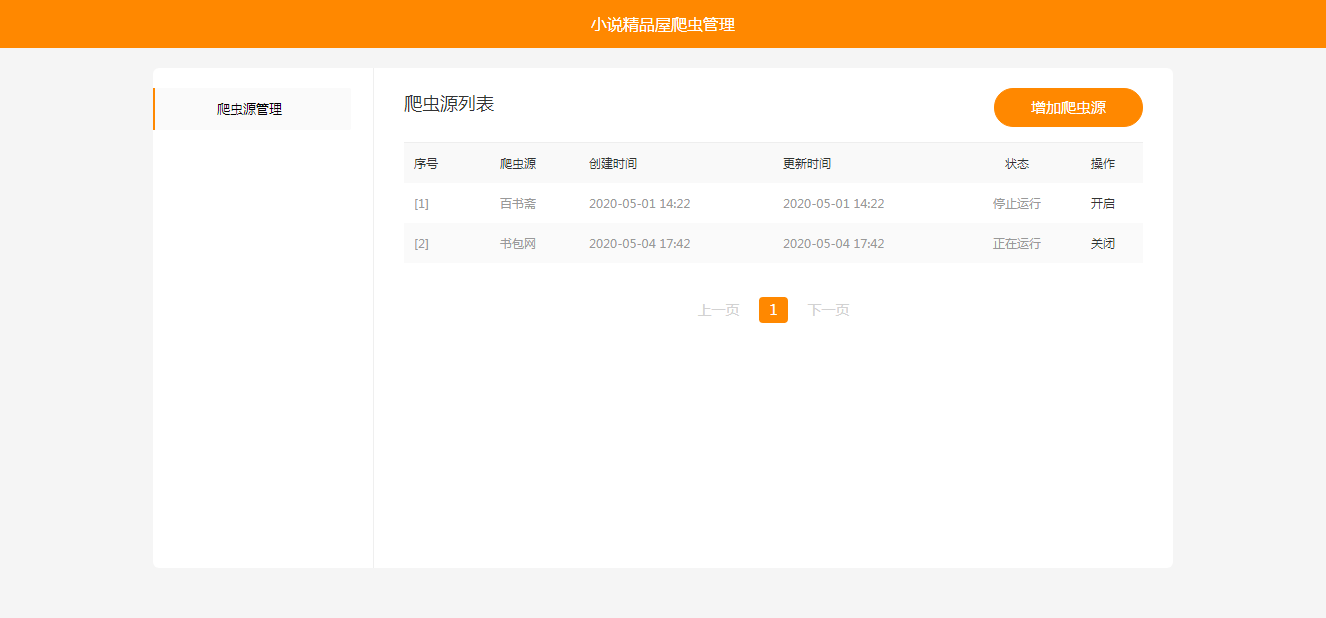
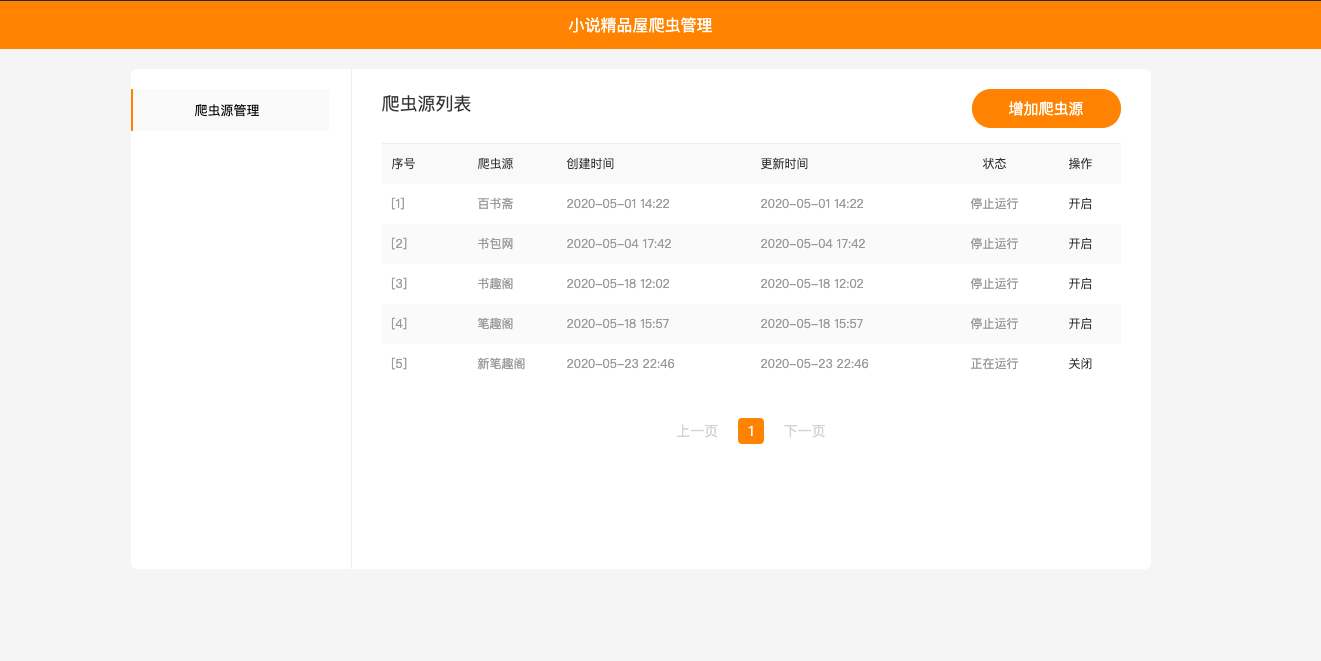
1.解决爬虫线程停止失败的bug,2新增新笔趣阁源，兼容更多源站

diff --git a/novel-front/src/main/resources/templates/mobile/index.html b/novel-front/src/main/resources/templates/mobile/index.html
@@ -276,6 +276,10 @@
                 for (var i = 0; i < 6; i++) {
                     var hotRecBook = hotRecBooks[i];
 
+                    if(hotRecBook.bookDesc){
+                        hotRecBook.bookDesc = hotRecBook.bookDesc.replace(/<[^>]+>/g,"").replace(/\s+/g,"");
+                    }
+
                     hotRecBooksHtml += ("<div style=\"margin-bottom: 5px\" class=\"layui-col-xs12 layui-col-sm6 layui-col-md4 layui-col-lg4\">\n" +
                         "                        <a href=\"/book/"+hotRecBook.bookId+".html\">\n" +
                         "                            <div class=\"layui-col-xs5 layui-col-sm4 layui-col-md4 layui-col-lg4\" >\n" +
@@ -323,9 +327,8 @@
                 for (var i = 0; i < 10; i++) {
 
                     var updateRankBook = updateRankBooks[i];
-                    var end = updateRankBook.bookDesc.indexOf("<");
-                    if(end != -1) {
-                        updateRankBook.bookDesc = updateRankBook.bookDesc.substring(0,end);
+                    if(updateRankBook.bookDesc){
+                        updateRankBook.bookDesc = updateRankBook.bookDesc.replace(/<[^>]+>/g,"").replace(/\s+/g,"");
                     }
 
                         updateRankBookHtml += ("<div style=\"padding-bottom: 30px\"\n" +

diff --git a/novel-front/src/main/resources/templates/mobile/book/book_ranking.html b/novel-front/src/main/resources/templates/mobile/book/book_ranking.html
@@ -179,9 +179,13 @@
                     for (var i = 0; i < bookList.length; i++) {
                         var book = bookList[i];
 
-                        var end = book.bookDesc.indexOf("<");
+                        /*var end = book.bookDesc.indexOf("<");
                         if(end != -1) {
                             book.bookDesc = book.bookDesc.substring(0,end);
+                        }*/
+
+                        if(book.bookDesc){
+                            book.bookDesc = book.bookDesc.replace(/<[^>]+>/g,"").replace(/\s+/g,"");
                         }
 
                         bookListHtml += ("<div class=\"layui-row\" style=\"margin-bottom:10px;padding:10px;background: #f2f2f2\">\n" +

diff --git a/novel-crawl/src/main/java/com/java2nb/novel/core/crawl/CrawlParser.java b/novel-crawl/src/main/java/com/java2nb/novel/core/crawl/CrawlParser.java
@@ -94,6 +94,8 @@ public class CrawlParser {
 
                     String desc = bookDetailHtml.substring(bookDetailHtml.indexOf(ruleBean.getDescStart()) + ruleBean.getDescStart().length());
                     desc = desc.substring(0, desc.indexOf(ruleBean.getDescEnd()));
+                    //过滤掉简介中的a标签
+                    desc = desc.replaceAll("<a[^<]+</a>","");
                     //设置书籍简介
                     book.setBookDesc(desc);
                     if (StringUtils.isNotBlank(ruleBean.getStatusPatten())) {
@@ -173,6 +175,7 @@ public class CrawlParser {
             String lastIndexName = null;
 
             while (isFindIndex) {
+
                 BookIndex hasIndex = hasIndexs.get(indexNum);
                 String indexName = indexNameMatch.group(1);
 

diff --git a/novel-crawl/src/main/java/com/java2nb/novel/service/impl/CrawlServiceImpl.java b/novel-crawl/src/main/java/com/java2nb/novel/service/impl/CrawlServiceImpl.java
@@ -167,6 +167,11 @@ public class CrawlServiceImpl implements CrawlService {
                         boolean isFindBookId = bookIdMatcher.find();
                         while (isFindBookId) {
                             try {
+                                if(Thread.currentThread().isInterrupted()){
+                                    return;
+                                }
+
+
                                 String bookId = bookIdMatcher.group(1);
                                 Book book = CrawlParser.parseBook(ruleBean, bookId);
                                 //这里只做新书入库，查询是否存在这本书
